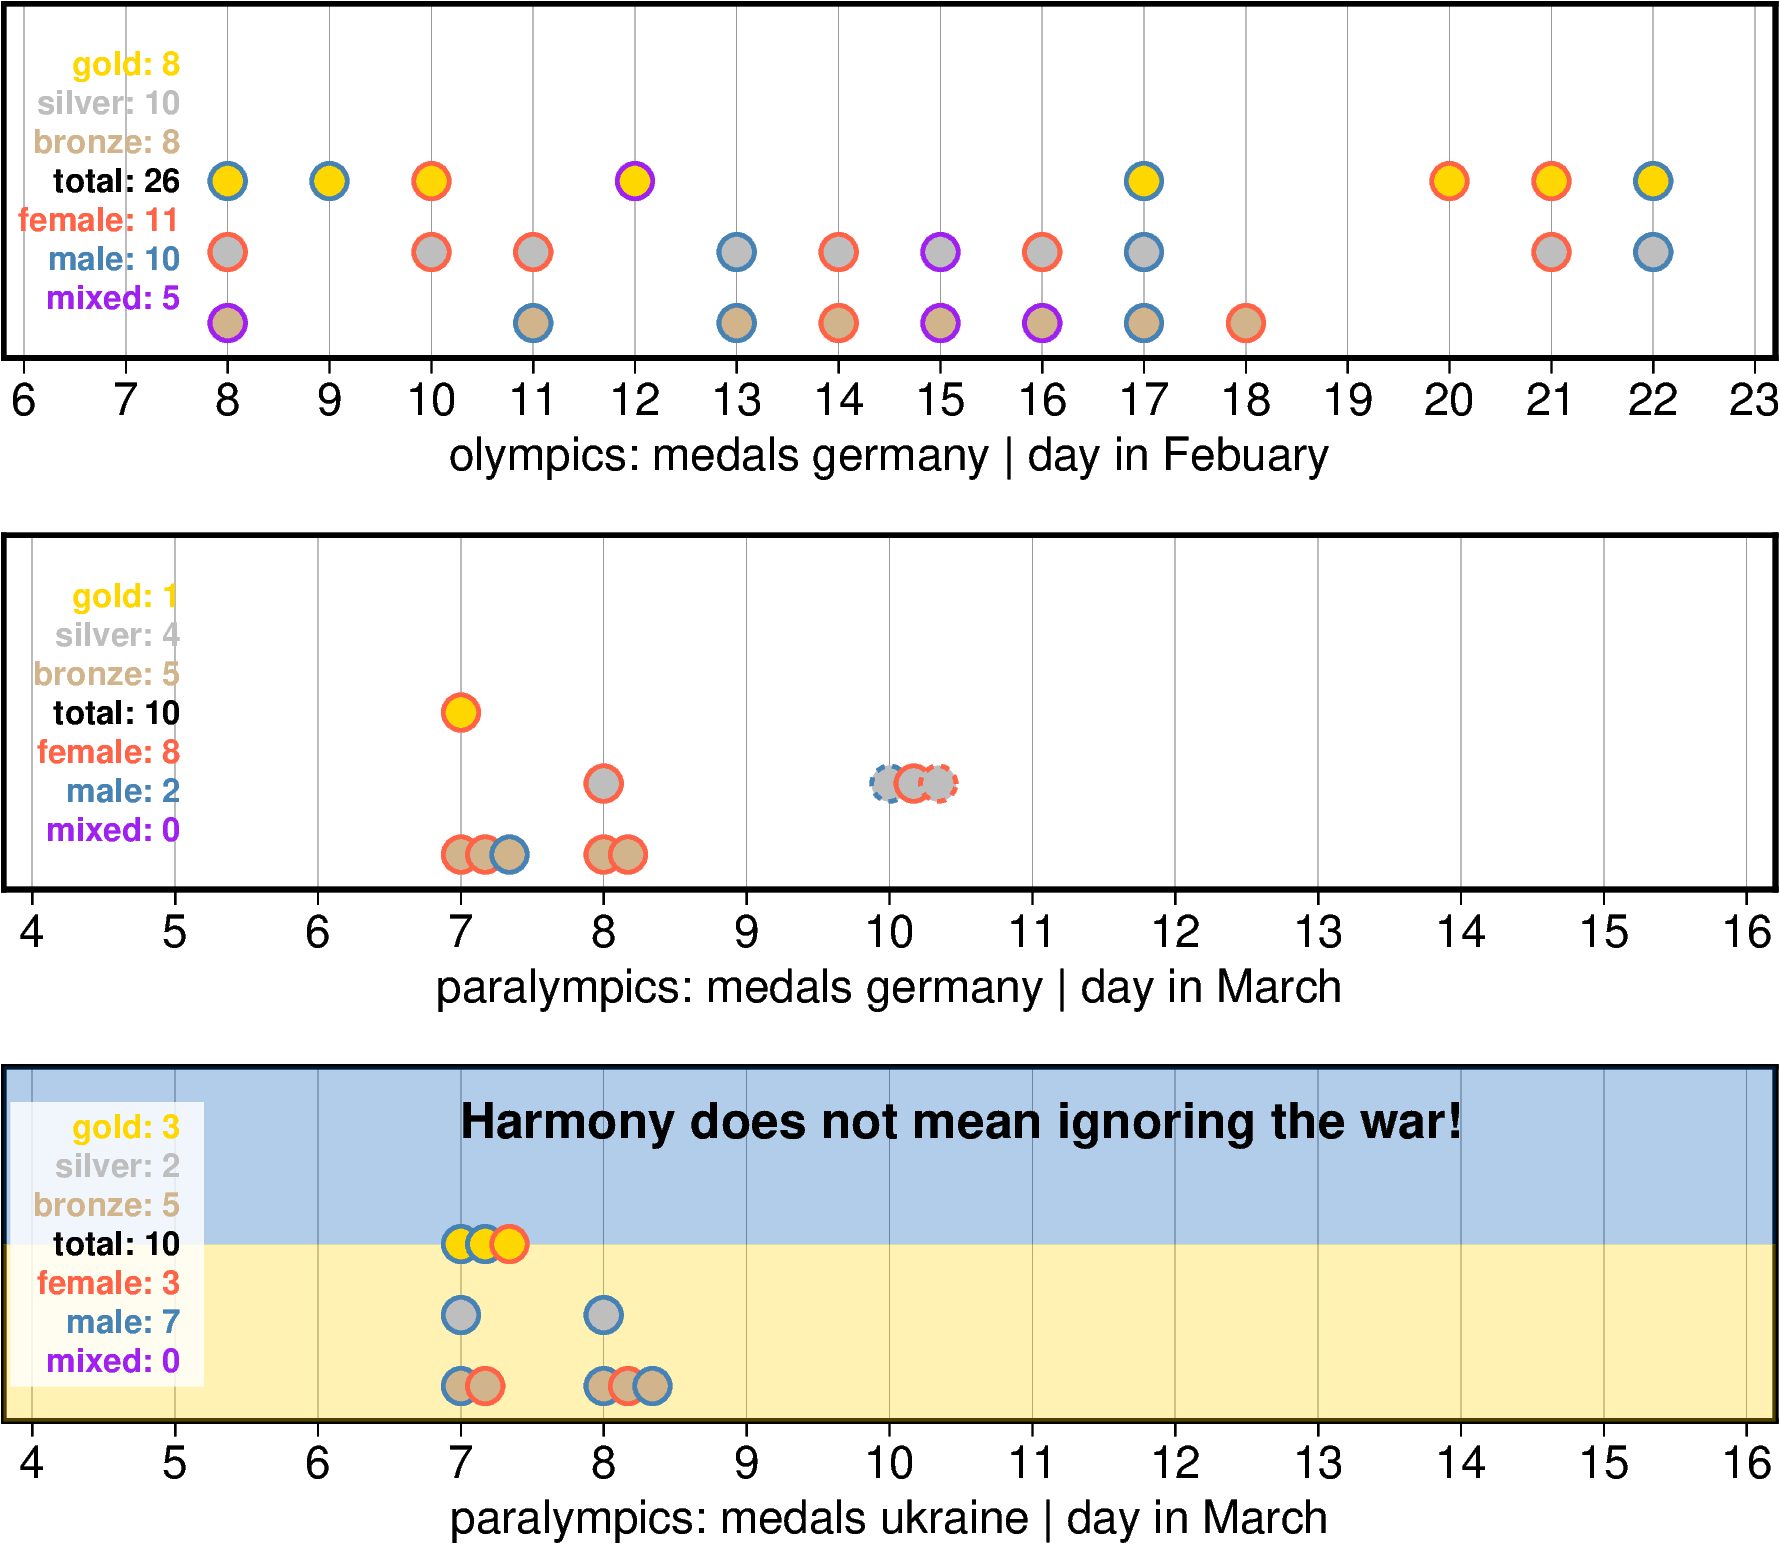
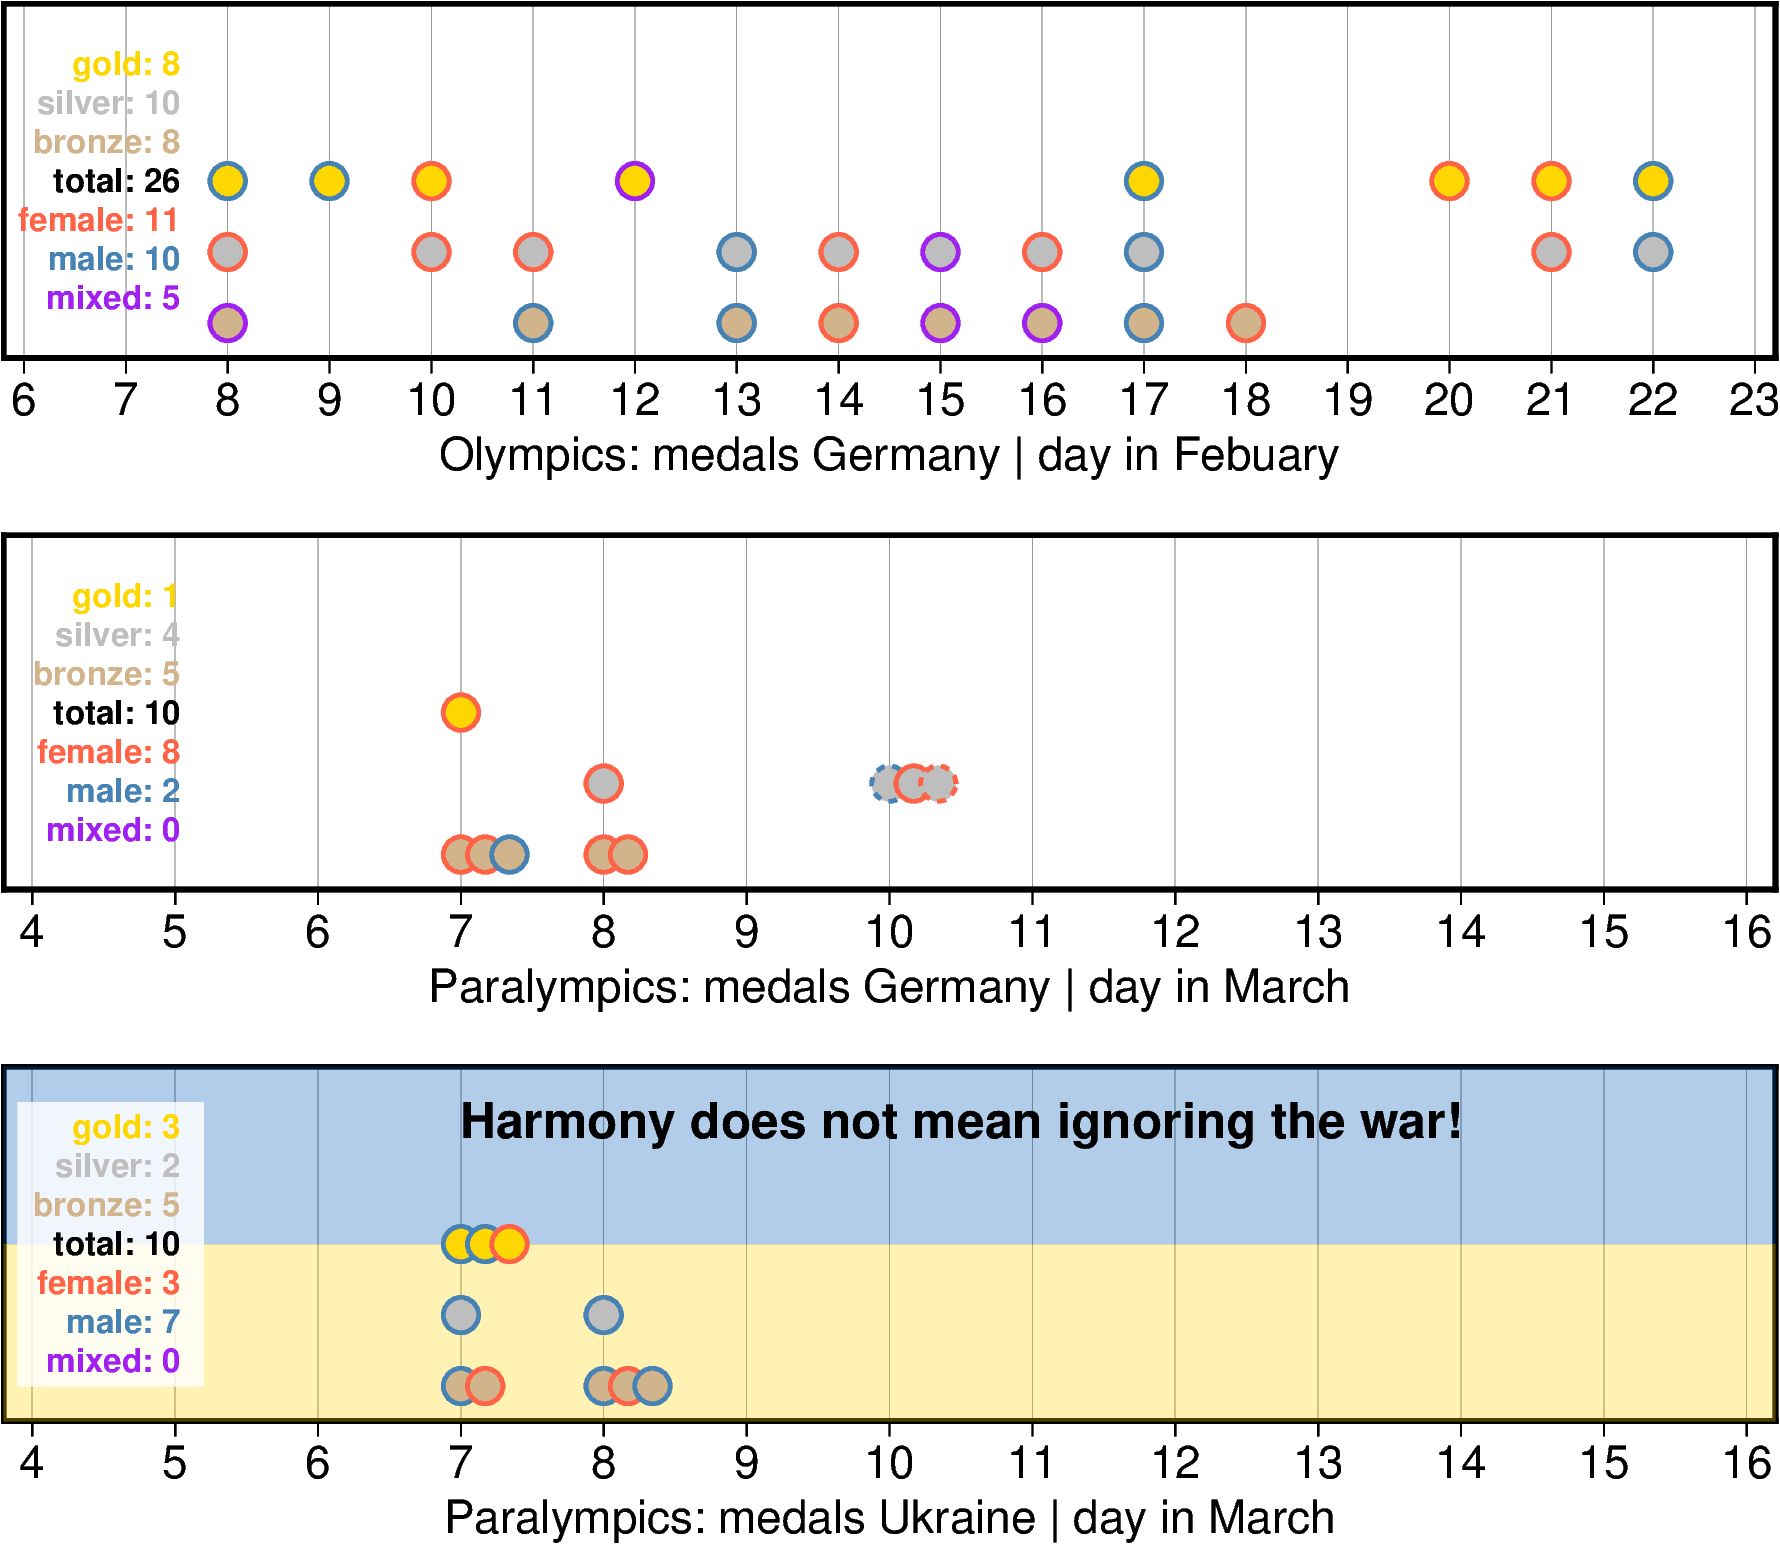
Improve xlabel

diff --git a/016_winter_games_2026/05_medals.py b/016_winter_games_2026/05_medals.py
@@ -50,12 +50,13 @@ for event, country in zip(
             region = [3.8, 16.2, 0.001, 1]
 
     df_medals = pd.read_csv(f"{path_in}/medals_{country}_{event}.txt", sep=";")
+    xlabel = f"{event.capitalize()}: medals {country.capitalize()} | day in {month}"
 
     with pygmt.config(MAP_GRID_PEN_PRIMARY="0.01p,gray60", FONT="11p"):
         fig.basemap(
             region=region,
             projection="X15c/3c",
-            frame=["lStr", f"xa1g1+l{event}: medals {country} | day in {month}"],
+            frame=["lStr", f"xa1g1+l{xlabel}"],
         )
 
     if country == "ukraine":
@@ -70,7 +71,7 @@ for event, country in zip(
             justify="MC",
         )
         fig.plot(
-            x=[3.95, 5.2, 5.2, 3.85, 3.85],
+            x=[3.9, 5.2, 5.2, 3.9, 3.9],
             y=[0.1, 0.1, 0.9, 0.9, 0.1],
             fill="white@20",
         )
